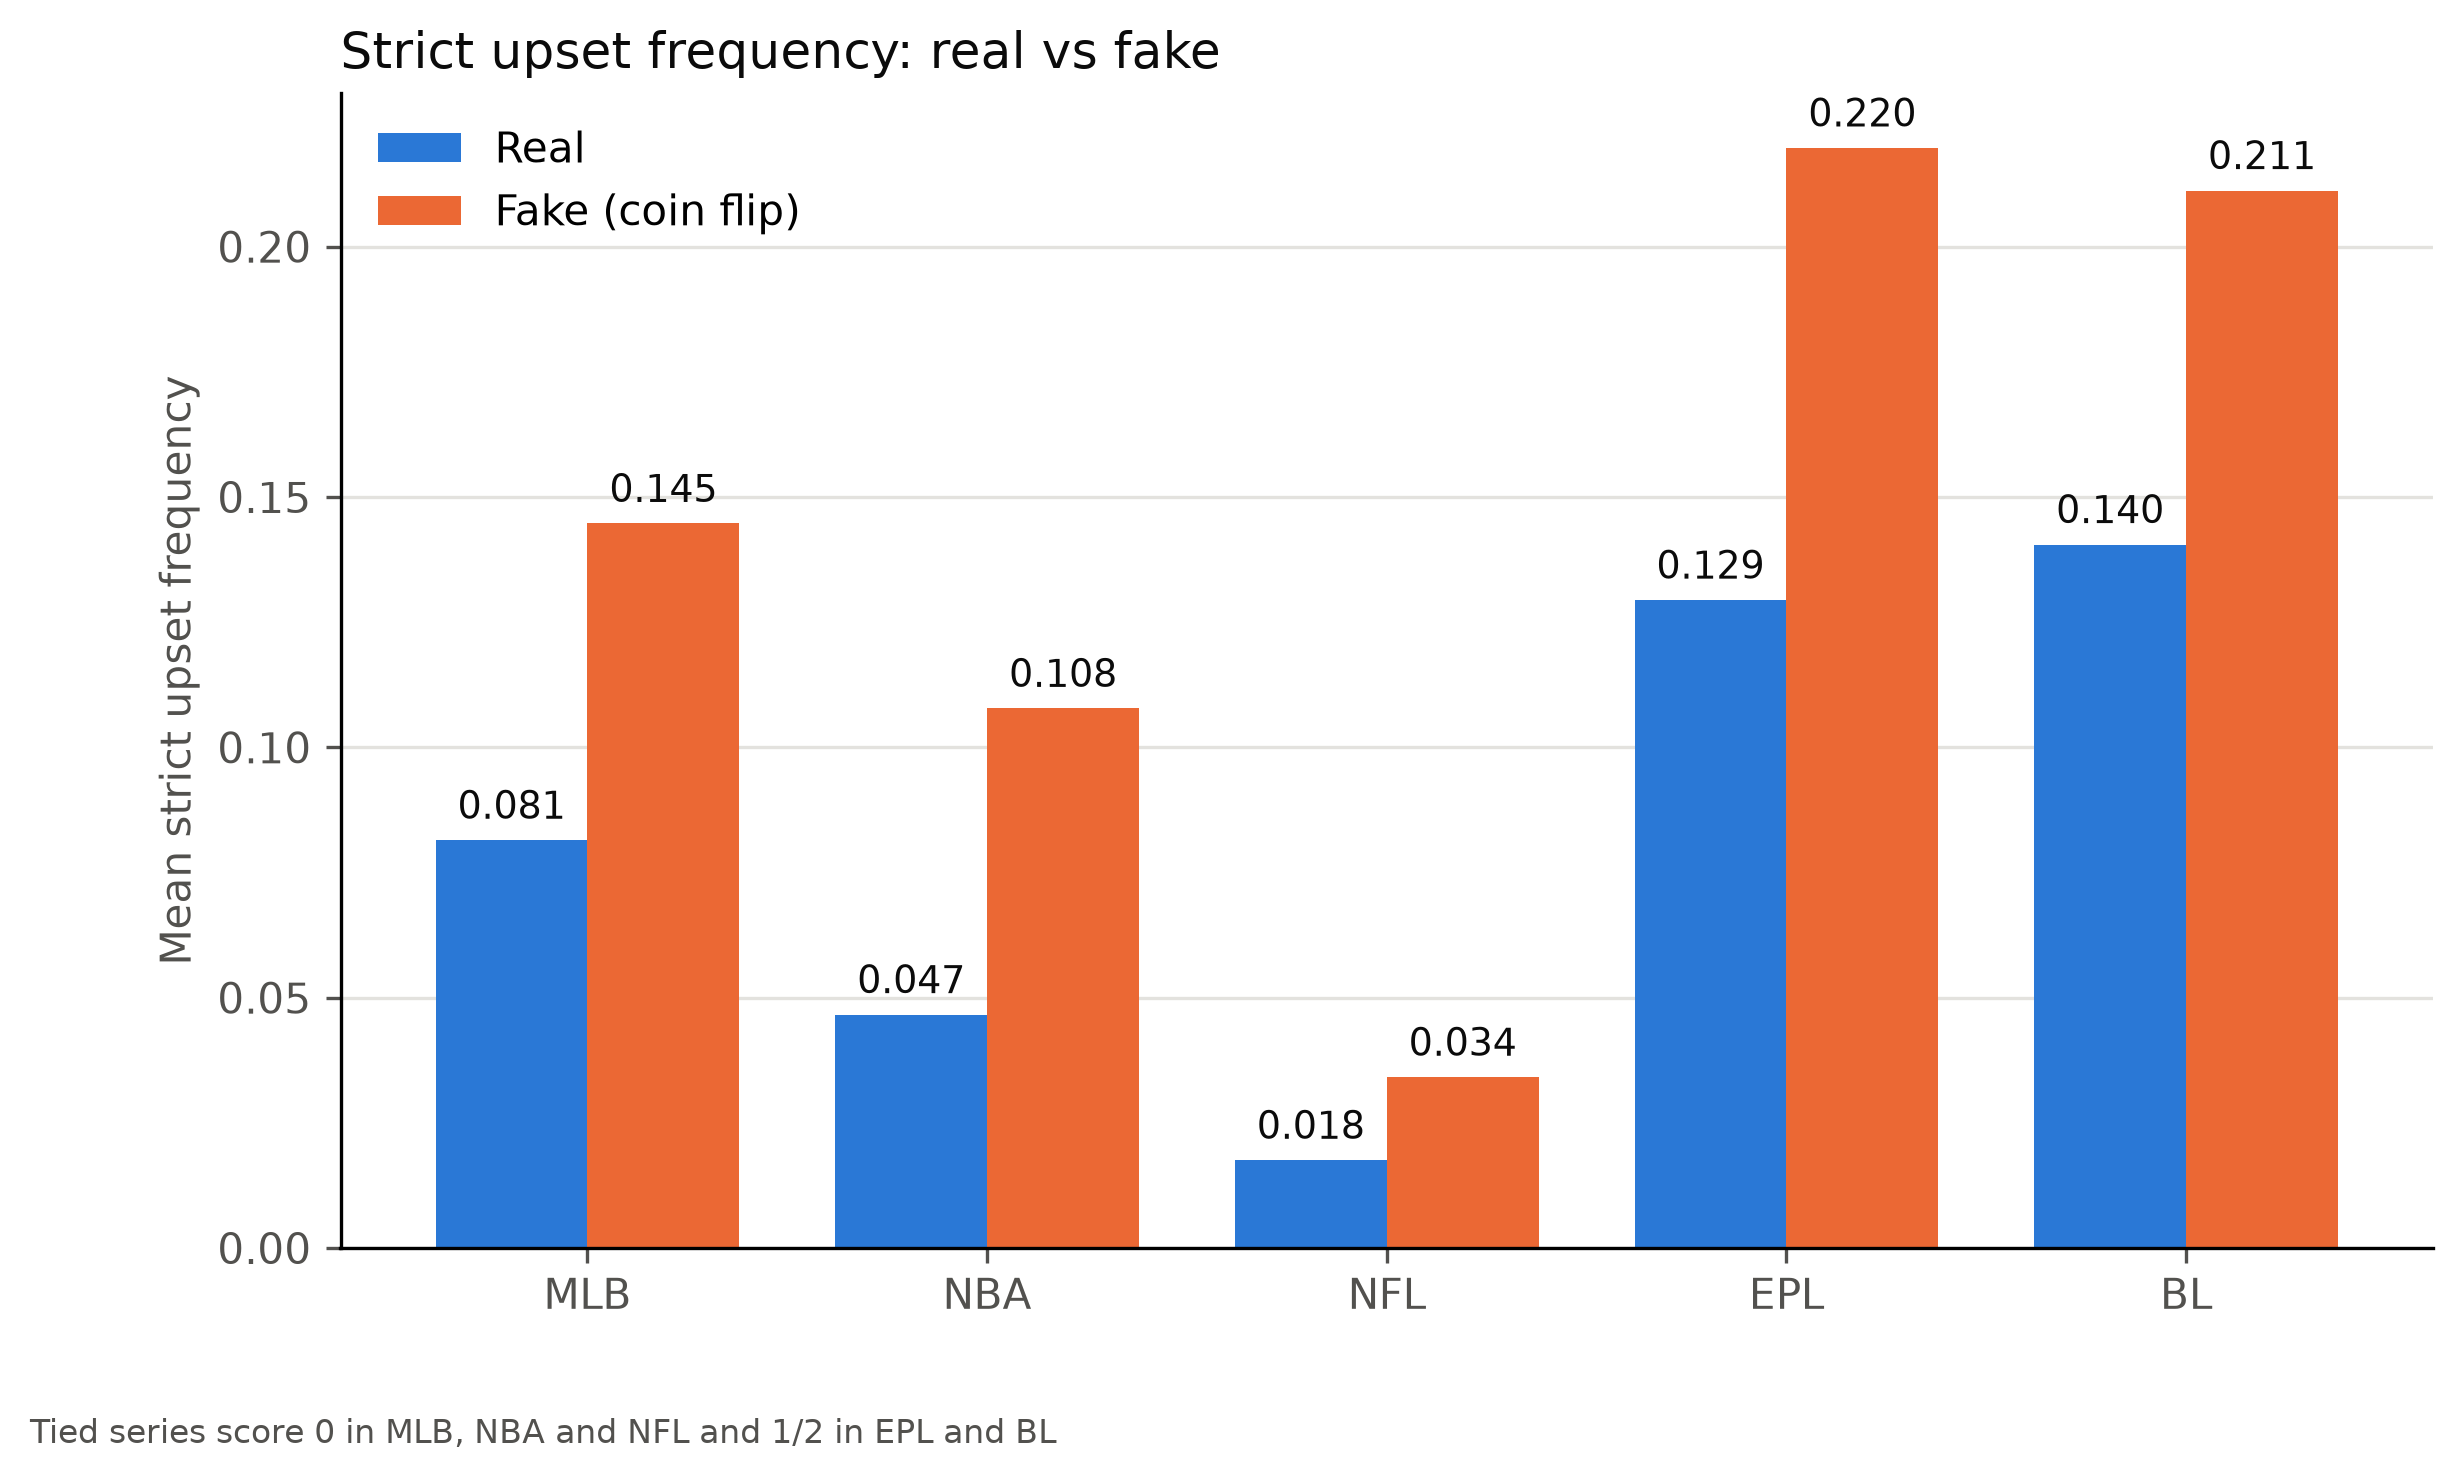
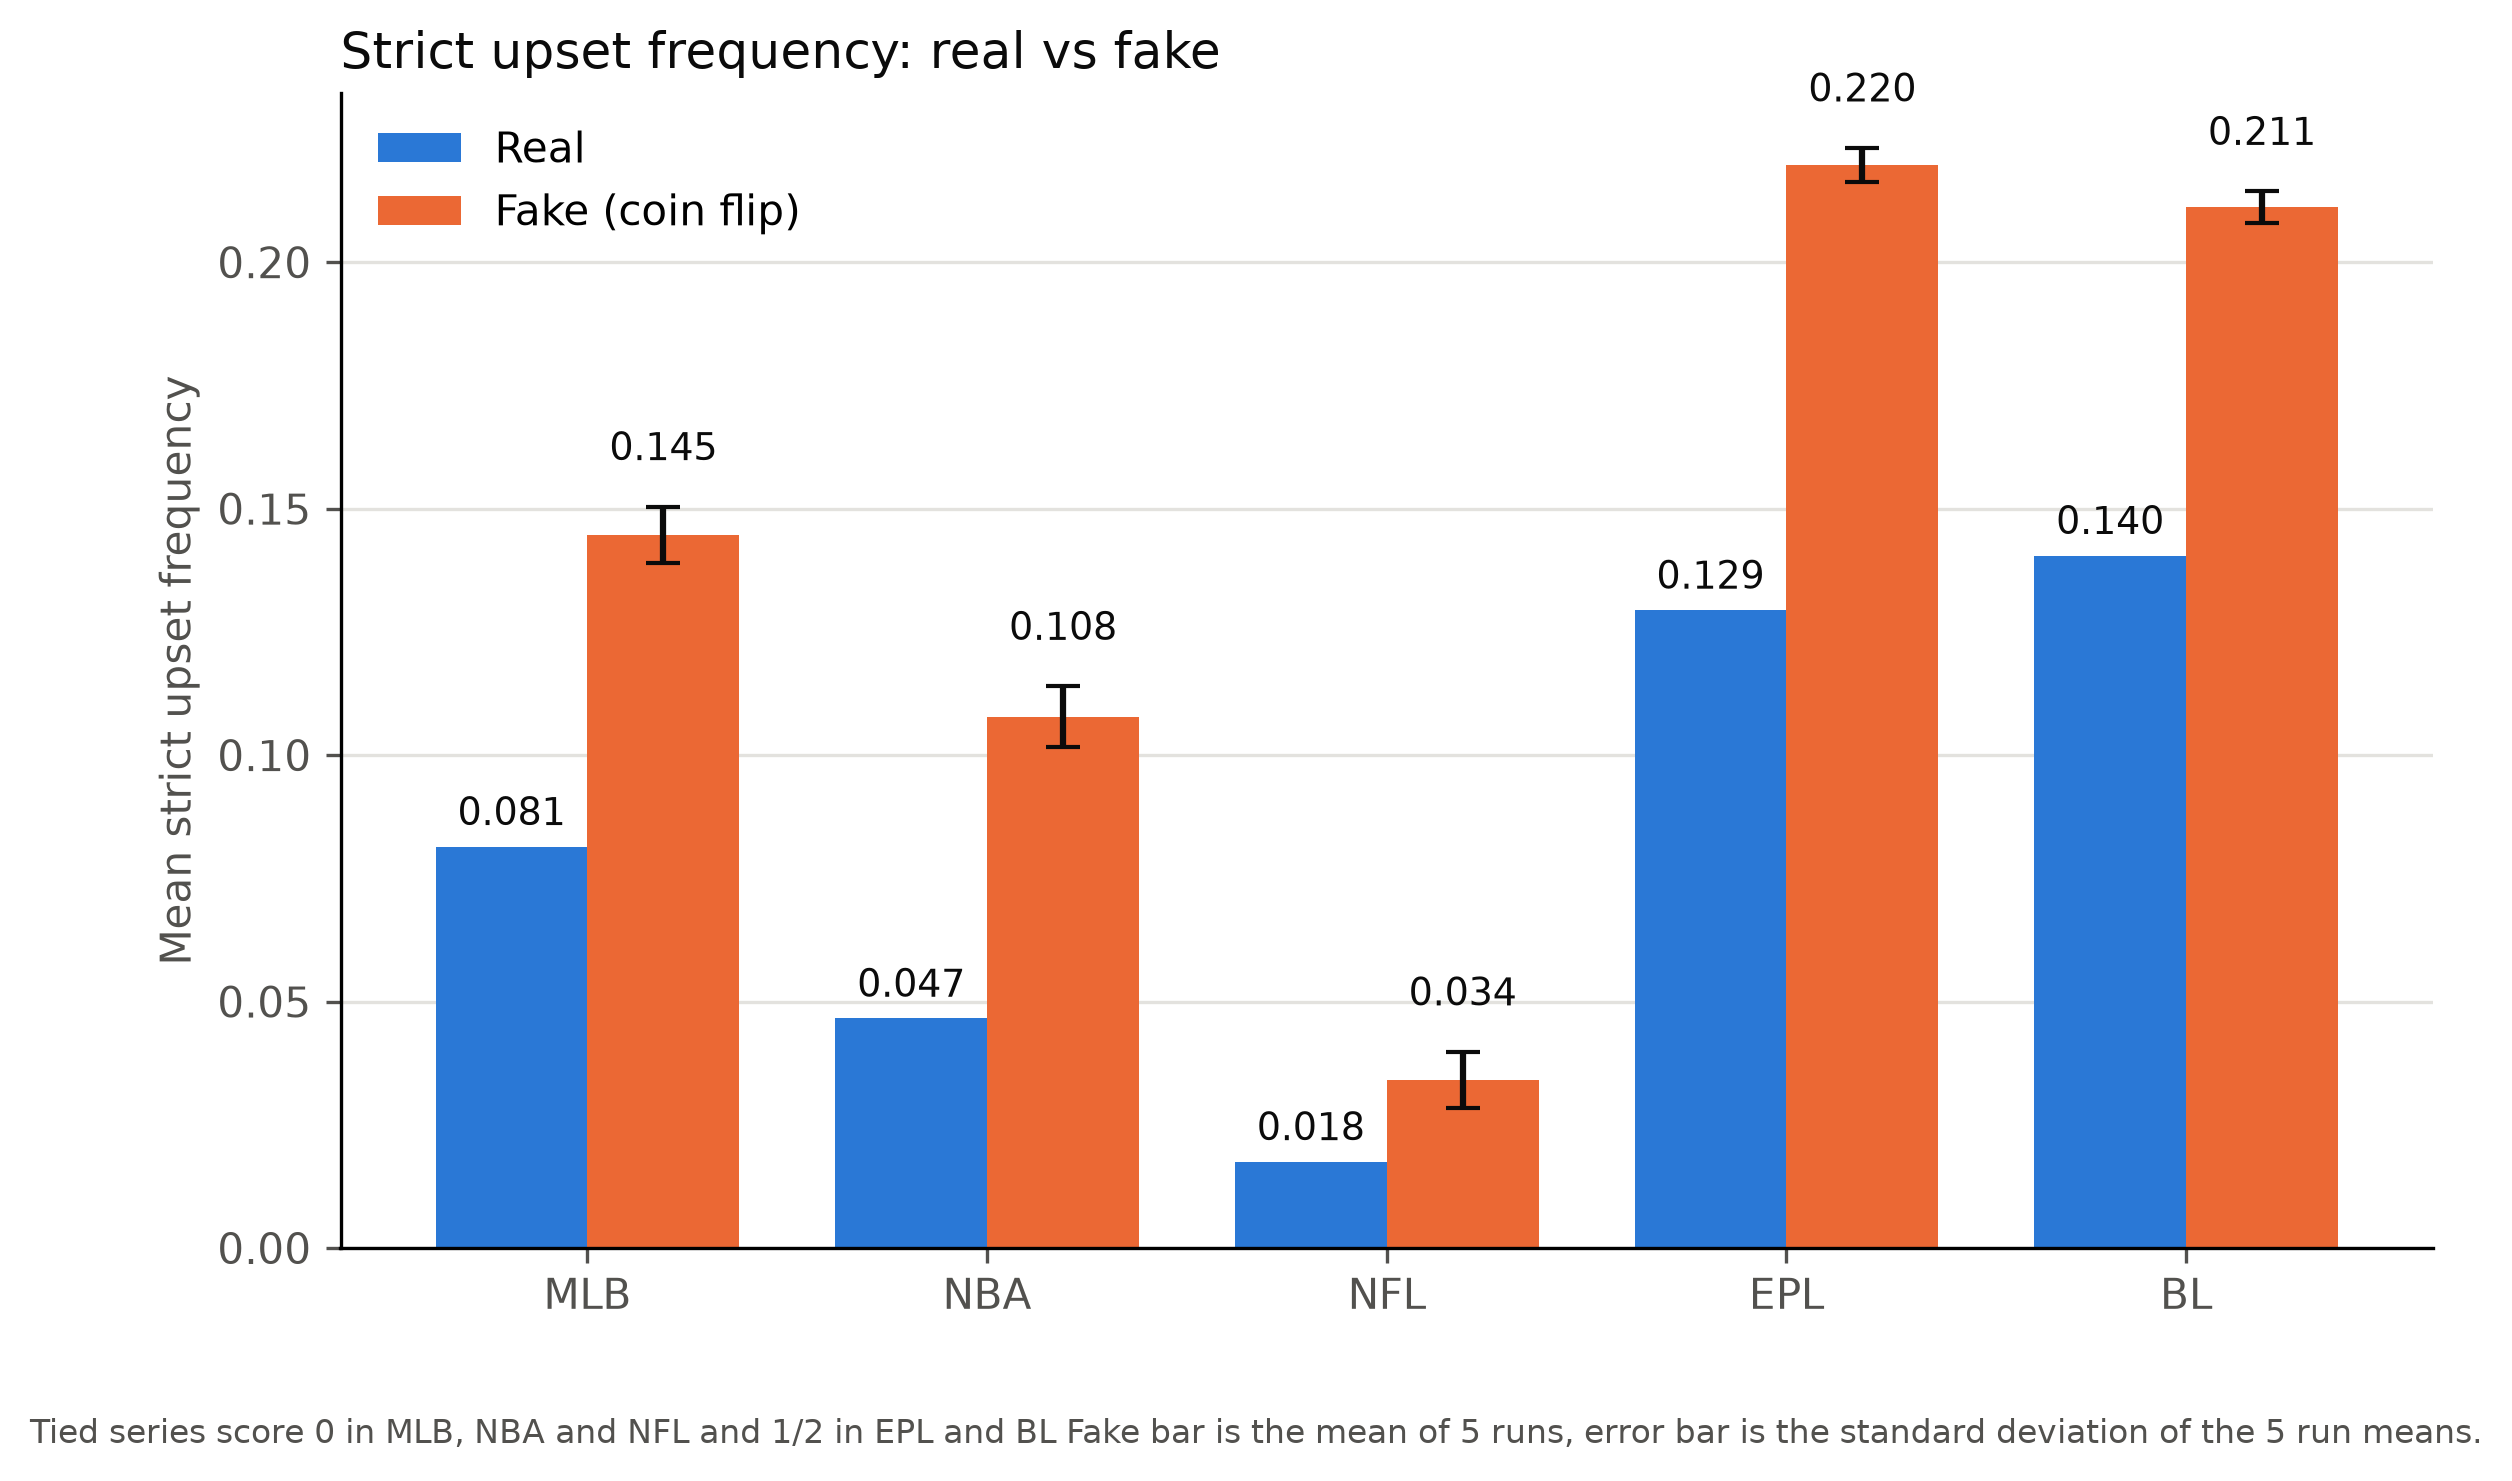
With error bars

diff --git a/charts/make_charts.py b/charts/make_charts.py
@@ -29,7 +29,7 @@ MUTED = "#52514e"
 
 SCORING_NOTE = "Tied series score 0 in MLB, NBA and NFL and 1/2 in EPL and BL"
 
-FAKE_ERROR_BARS = False
+FAKE_ERROR_BARS = True
 
 def load_summary():
     with open(SUMMARY_PATH) as f:
